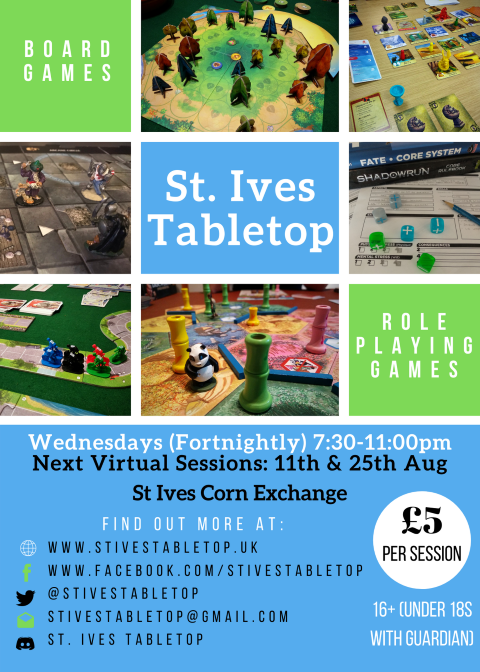
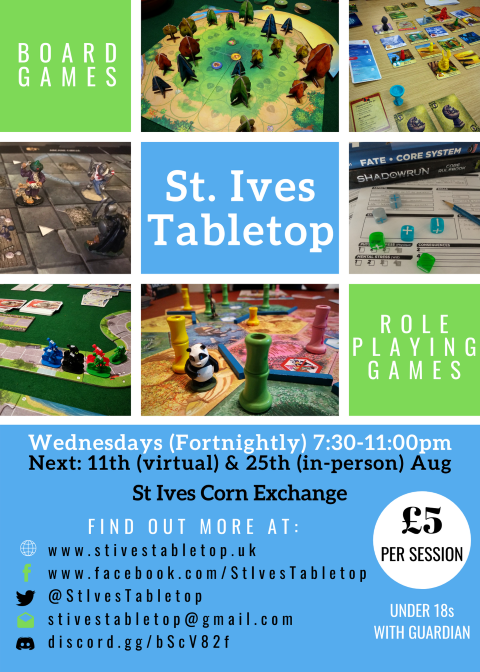
In-Person: Update Details

diff --git a/index.md b/index.md
@@ -6,21 +6,22 @@ title: Welcome
 
 # What is St. Ives Tabletop?
 
-We are starting a fortnightly tabletop group for the area around St. Ives, Cambridgeshire.
+St Ives Tabletop is a fortnightly tabletop gaming group for the area around St. Ives, Cambridgeshire.
 
-We aim to cover:
-* Tabletop RPGs (we have a good amount of experience running); and
-* Board games (we have hundreds between us!).
+We cover:
+* Tabletop role-playing games (RPGs), of which we have a good amount of experience running; and
+* Board games, of which we have hundreds between us!
 
 # Next session
 
-In light of the government’s recent recommendations around COVID-19 (aka coronavirus), we have decided to have a hiatus for St Ives Tabletop until further notice.
-We are keen to restart the club as and when the advice changes and will keep you updated via our various [communication channels](/Contact.html).
+In light of the recent easing of restrictions related to COVID-19 (aka coronavirus), we will be restarting in-person St Ives Tabletop sessions as of 25th August 2021, and continuing fortnightly on Wednesday evenings.
 
-For those who would like to continue during this break to play either board games or role-playing games, we are organising some virtual sessions in place of the regular Wednesday fortnightly sessions (e.g. using [Board Game Arena](https://www.boardgamearena.com) or other websites/applications for board games, [Roll20](https://roll20.net) for tabletop RPGs, with [Discord][Discord] as voice/video chat).
-If you are interested in joining, please join our [Discord][Discord] server and please let us know so we can organise.
+The next session will be on 11th August 2021 and will be held virtually using [Board Game Arena](https://www.boardgamearena.com) with [Discord][Discord] for voice chat.
+If you are interested in joining for virtual games, please join our [Discord][Discord] server.
+After that fortnightly sessions will be in-person in the regular Wednesday evening slot, although we are also looking into options for offering virtual gaming sessions in the future.
 
-The next virtual session will be:  
+
+The next session will be:  
 *{%- case d %}
 	{%- when "1" or "21" or "31" %}{{ d }}st
 	{%- when "2" or "22" %}{{ d }}nd
@@ -28,7 +29,7 @@ The next virtual session will be:
 	{%- else %}{{ d }}th
 {%- endcase %} {{ site.data.SessionInformation.NextSessionDate | date: "%B %Y" }} @ {{ site.data.SessionInformation.SessionStart | date: "%l:%M%P" }} until {{ site.data.SessionInformation.SessionEnd | date: "%l:%M%P"}}*
 
-See the [calendar](/Calendar.html) for the following sessions (which will be virtual until further notice).
+See the [calendar](/Calendar.html) for the following sessions.
 
 ![Poster](/images/{{ site.data.SessionInformation.NextSessionDate | date: "%Y_%m_%d"}}_Poster.png "Next Session: {% case d %}
 	{%- when "1" or "21" or "31" %}{{ d }}st
